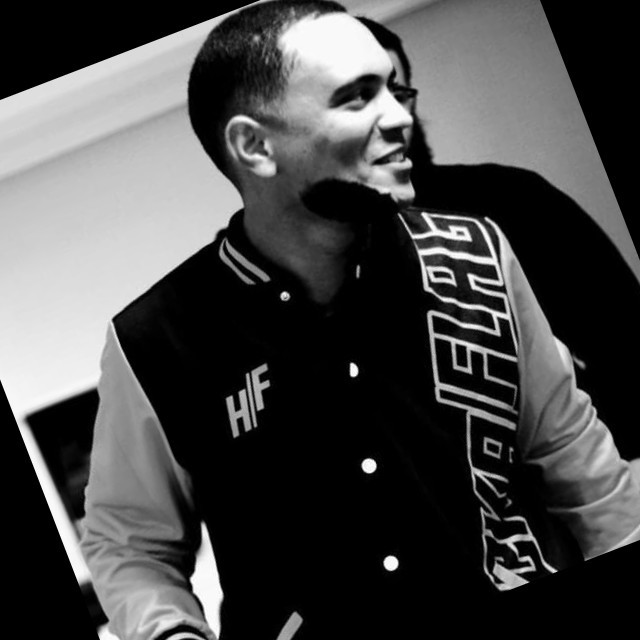
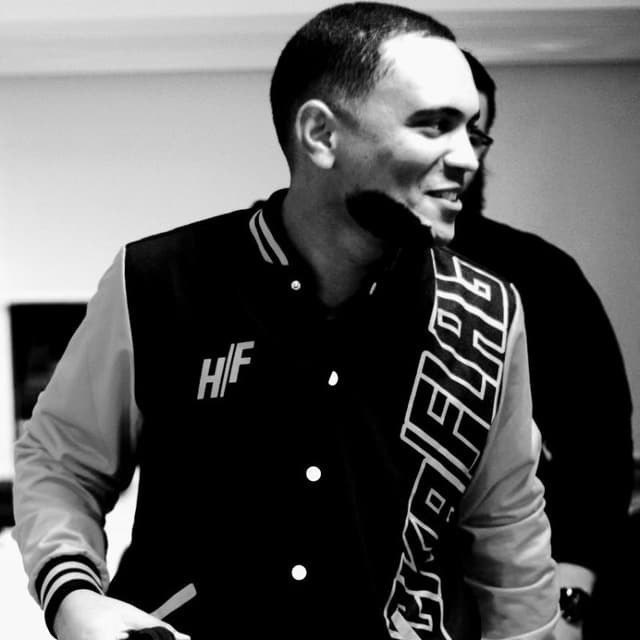
updates

diff --git a/about/README.md b/about/README.md
@@ -1,5 +1,4 @@
-![[profile.jpeg]]
-
+<img src="../images/profile.jpeg" width=60px height=60px>
 ## Whoami
 
 > For years testing WEB applications, source code, analysis of results, forwarding of reports and monitoring of improvements.
